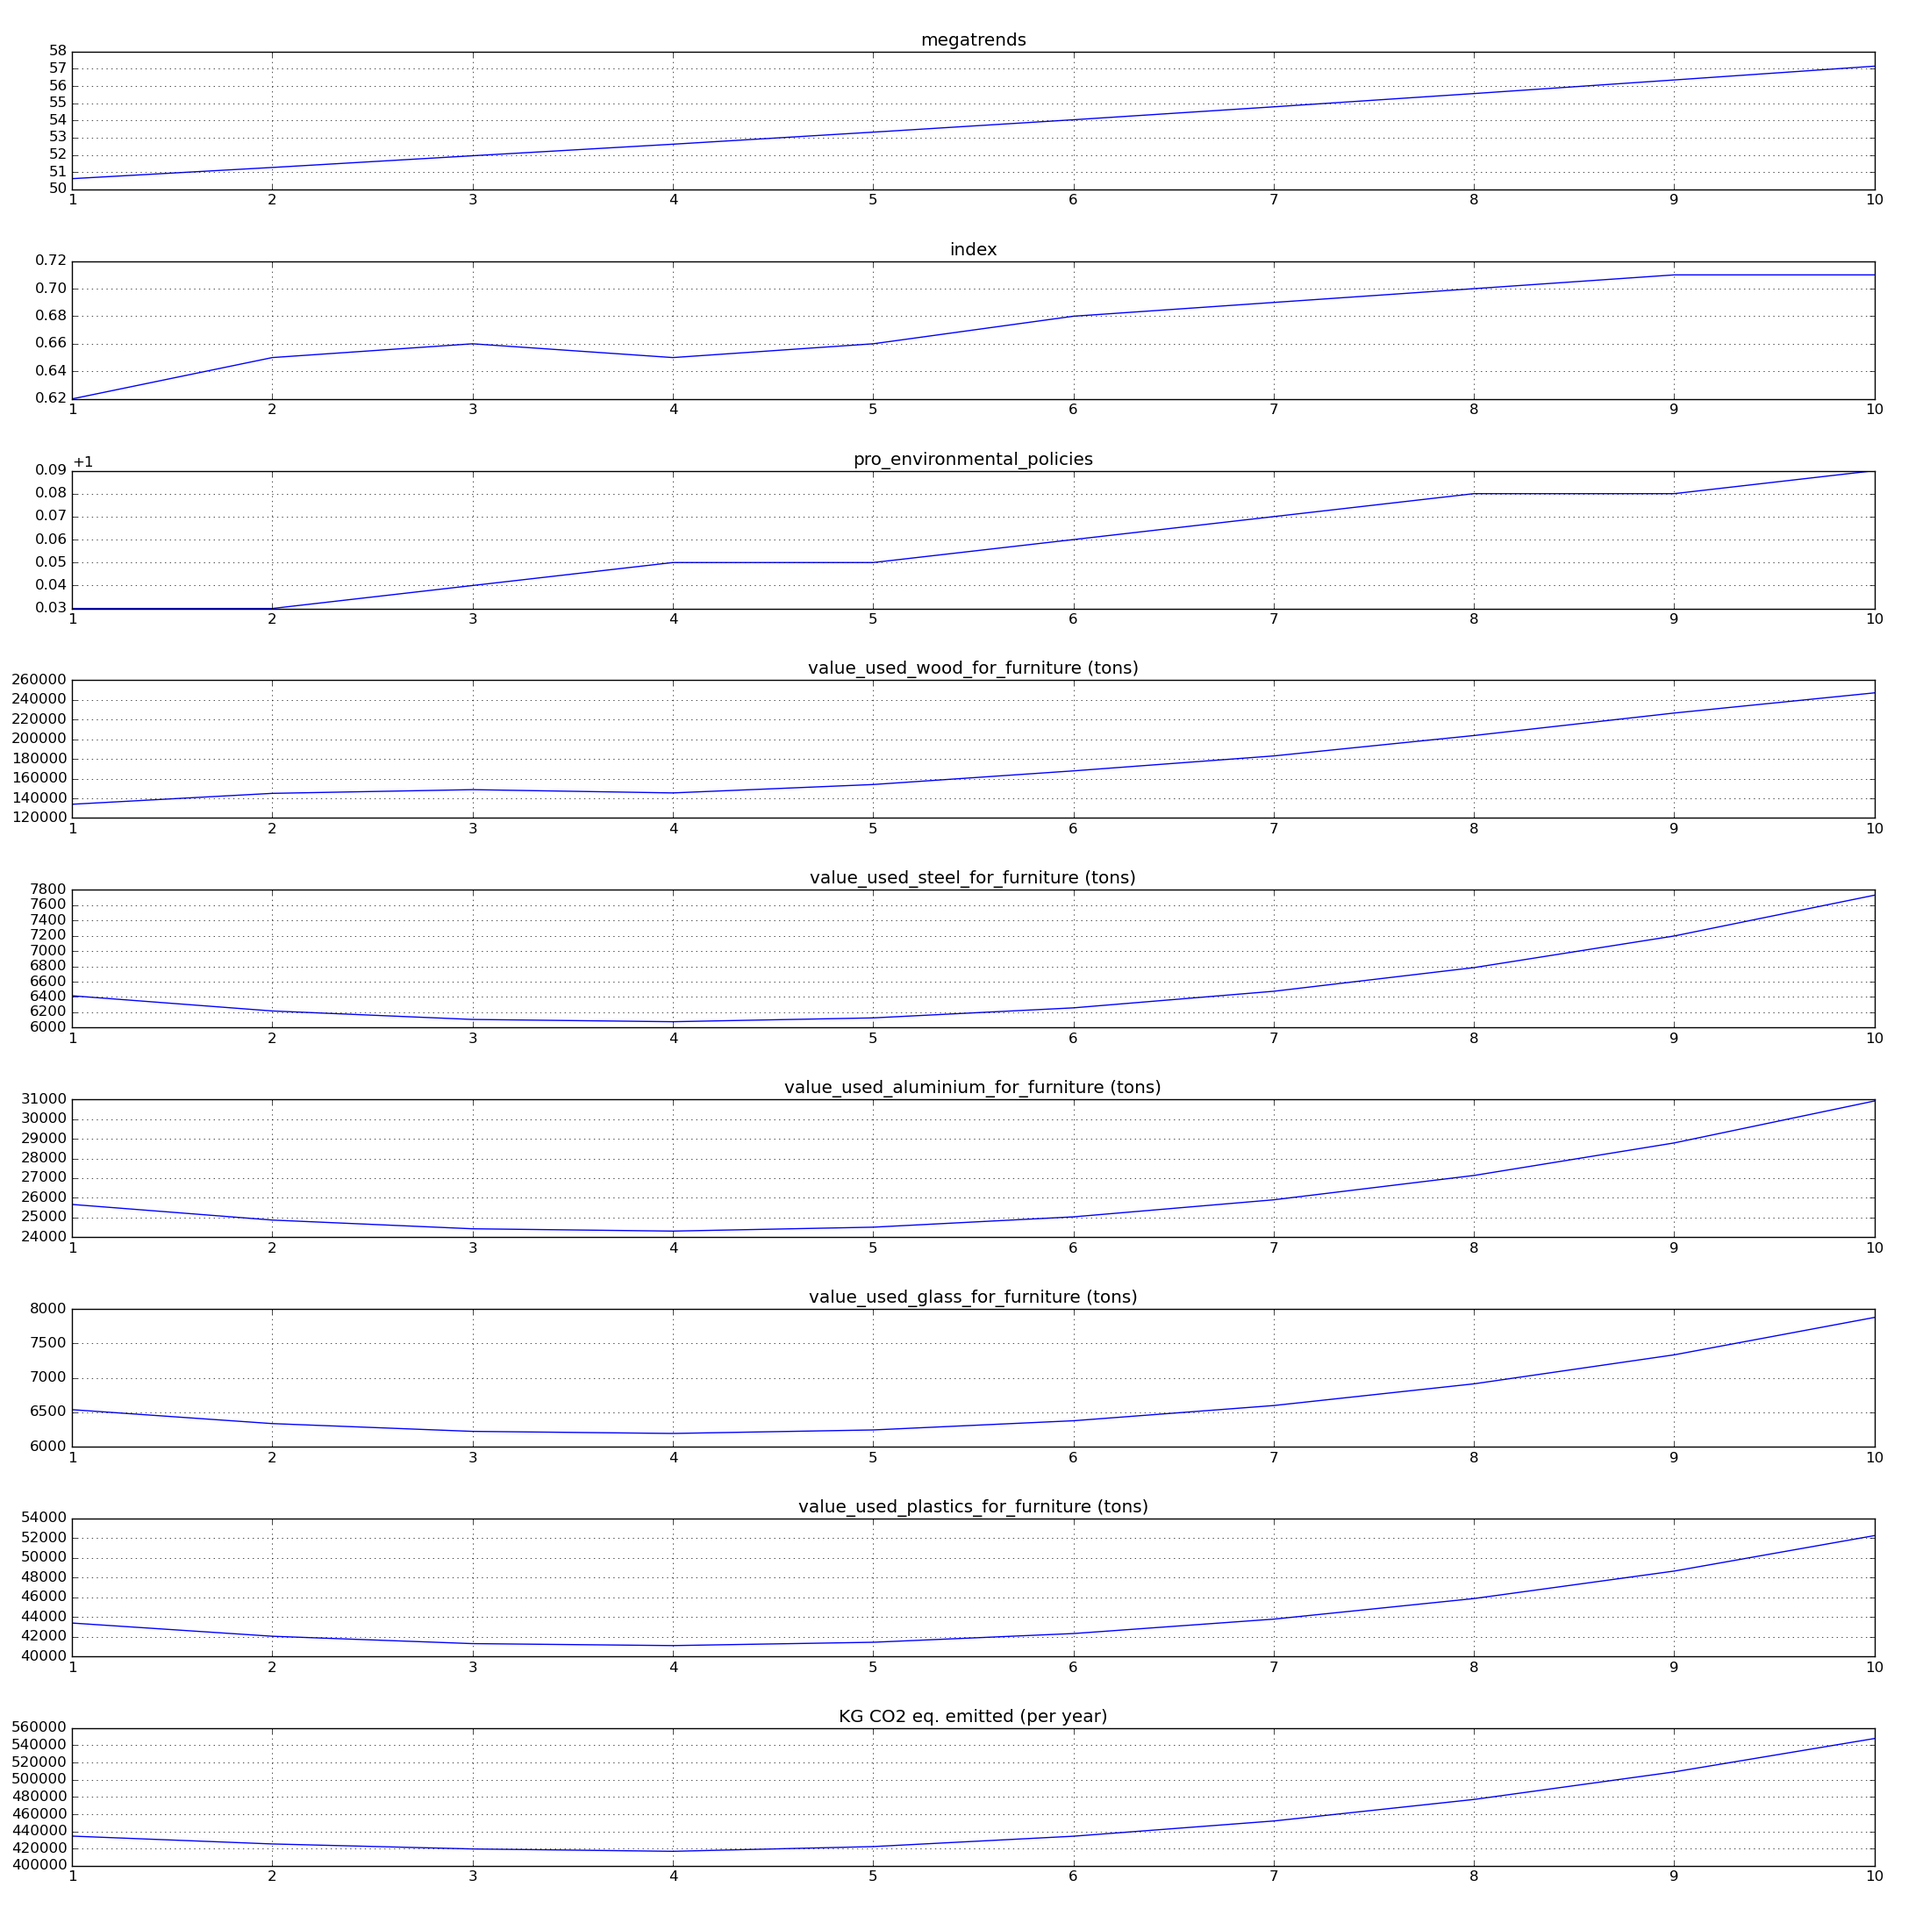
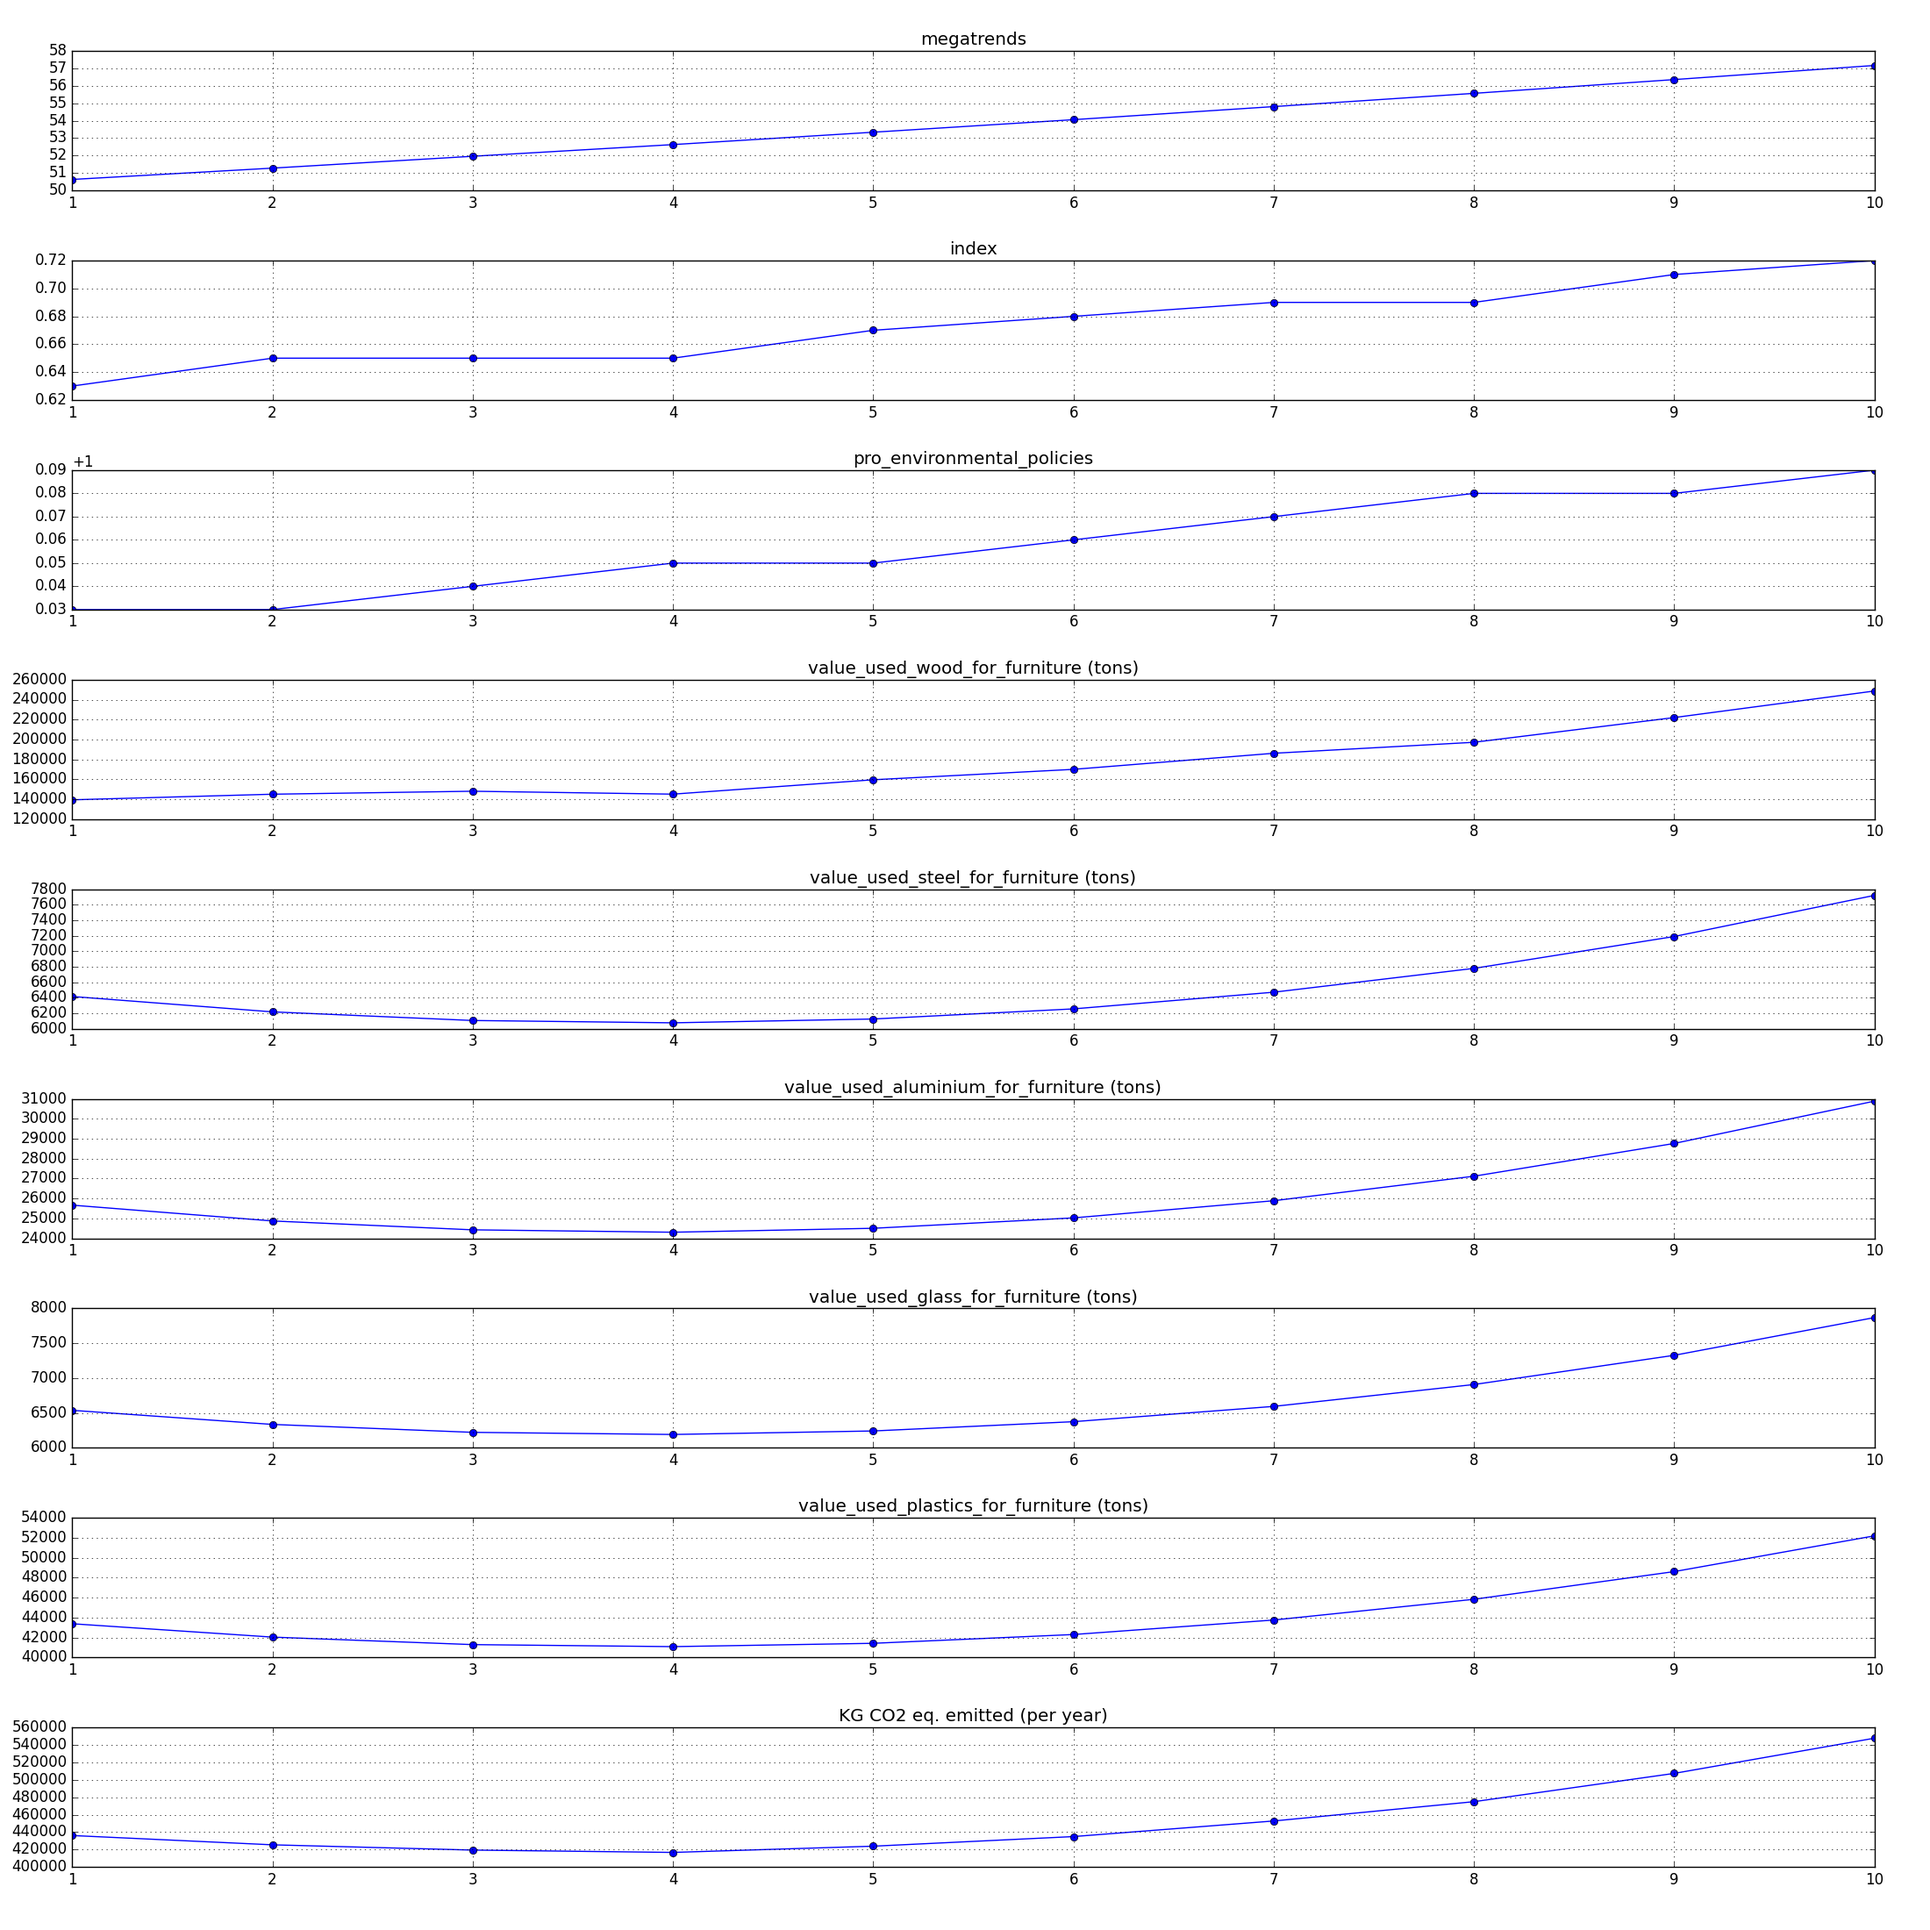
Added the code, so dots are now at the specific data points in the saved png files.

diff --git a/model.py b/model.py
@@ -265,21 +265,21 @@ def create_price_subplots(data_dic):
     # fig.suptitle('Overview Prices')
     fig.tight_layout(pad=3.0)
     # plt.grid(color='b', linestyle='-', linewidth=0.1)
-    ax[0].plot(data_dic["value_time"], data_dic["value_megatrends"])
+    ax[0].plot(data_dic["value_time"], data_dic["value_megatrends"], marker='o')
     ax[0].set_title("megatrends")
-    ax[1].plot(data_dic["value_time"], data_dic["value_index"])
+    ax[1].plot(data_dic["value_time"], data_dic["value_index"], marker='o')
     ax[1].set_title("index")
-    ax[2].plot(data_dic["value_time"], data_dic["value_pro_environmental_policies"])
+    ax[2].plot(data_dic["value_time"], data_dic["value_pro_environmental_policies"], marker='o')
     ax[2].set_title("pro_environmental_policies")
-    ax[3].plot(data_dic["value_time"], data_dic["value_price_of_wood"])
+    ax[3].plot(data_dic["value_time"], data_dic["value_price_of_wood"], marker='o')
     ax[3].set_title("value_price_of_wood (€)")
-    ax[4].plot(data_dic["value_time"], data_dic["value_price_of_steel"])
+    ax[4].plot(data_dic["value_time"], data_dic["value_price_of_steel"], marker='o')
     ax[4].set_title("value_price_of_steel (€)")
-    ax[5].plot(data_dic["value_time"], data_dic["value_price_of_aluminium"])
+    ax[5].plot(data_dic["value_time"], data_dic["value_price_of_aluminium"], marker='o')
     ax[5].set_title("value_price_of_aluminium (€)")
-    ax[6].plot(data_dic["value_time"], data_dic["value_price_of_glass"])
+    ax[6].plot(data_dic["value_time"], data_dic["value_price_of_glass"], marker='o')
     ax[6].set_title("value_price_of_glass (€)")
-    ax[7].plot(data_dic["value_time"], data_dic["value_price_of_plastics"])
+    ax[7].plot(data_dic["value_time"], data_dic["value_price_of_plastics"], marker='o')
     ax[7].set_title("value_price_of_plastics (€)")
     for i in range(8):
         ax[i].grid()
@@ -293,21 +293,21 @@ def create_material_supply_subplot(data_dic):
     # fig.suptitle('Current Material Supplies')
     fig.tight_layout(pad=3.0)
     # plt.grid(color='b', linestyle='-', linewidth=0.1)
-    ax[0].plot(data_dic["value_time"], data_dic["value_megatrends"])
+    ax[0].plot(data_dic["value_time"], data_dic["value_megatrends"], marker='o')
     ax[0].set_title("megatrends")
-    ax[1].plot(data_dic["value_time"], data_dic["value_index"])
+    ax[1].plot(data_dic["value_time"], data_dic["value_index"], marker='o')
     ax[1].set_title("index")
-    ax[2].plot(data_dic["value_time"], data_dic["value_pro_environmental_policies"])
+    ax[2].plot(data_dic["value_time"], data_dic["value_pro_environmental_policies"], marker='o')
     ax[2].set_title("pro_environmental_policies")
-    ax[3].plot(data_dic["value_time"], data_dic["value_current_supply_of_wood"])
+    ax[3].plot(data_dic["value_time"], data_dic["value_current_supply_of_wood"], marker='o')
     ax[3].set_title("value_current_supply_of_wood (tons)")
-    ax[4].plot(data_dic["value_time"], data_dic["value_current_supply_of_steel"])
+    ax[4].plot(data_dic["value_time"], data_dic["value_current_supply_of_steel"], marker='o')
     ax[4].set_title("value_current_supply_of_steel (tons)")
-    ax[5].plot(data_dic["value_time"], data_dic["value_current_supply_of_aluminium"])
+    ax[5].plot(data_dic["value_time"], data_dic["value_current_supply_of_aluminium"], marker='o')
     ax[5].set_title("value_current_supply_of_aluminium (tons)")
-    ax[6].plot(data_dic["value_time"], data_dic["value_current_supply_of_glass"])
+    ax[6].plot(data_dic["value_time"], data_dic["value_current_supply_of_glass"], marker='o')
     ax[6].set_title("value_current_supply_of_glass (tons)")
-    ax[7].plot(data_dic["value_time"], data_dic["value_current_supply_of_plastics"])
+    ax[7].plot(data_dic["value_time"], data_dic["value_current_supply_of_plastics"], marker='o')
     ax[7].set_title("value_current_supply_of_plastics (tons)")
     for i in range(8):
         ax[i].grid()
@@ -322,23 +322,23 @@ def create_used_materials_and_emissions_subplots(data_dic):
     # fig.suptitle('Used Materials + Emissions')
     fig.tight_layout(pad=3.0)
     # plt.grid(color='b', linestyle='-', linewidth=0.1)
-    ax[0].plot(data_dic["value_time"], data_dic["value_megatrends"])
+    ax[0].plot(data_dic["value_time"], data_dic["value_megatrends"], marker='o')
     ax[0].set_title("megatrends")
-    ax[1].plot(data_dic["value_time"], data_dic["value_index"])
+    ax[1].plot(data_dic["value_time"], data_dic["value_index"], marker='o')
     ax[1].set_title("index")
-    ax[2].plot(data_dic["value_time"], data_dic["value_pro_environmental_policies"])
+    ax[2].plot(data_dic["value_time"], data_dic["value_pro_environmental_policies"], marker='o')
     ax[2].set_title("pro_environmental_policies")
-    ax[3].plot(data_dic["value_time"], data_dic["value_used_wood_for_furniture"])
+    ax[3].plot(data_dic["value_time"], data_dic["value_used_wood_for_furniture"], marker='o')
     ax[3].set_title("value_used_wood_for_furniture (tons)")
-    ax[4].plot(data_dic["value_time"], data_dic["value_used_steel_for_furniture"])
+    ax[4].plot(data_dic["value_time"], data_dic["value_used_steel_for_furniture"], marker='o')
     ax[4].set_title("value_used_steel_for_furniture (tons)")
-    ax[5].plot(data_dic["value_time"], data_dic["value_used_aluminium_for_furniture"])
+    ax[5].plot(data_dic["value_time"], data_dic["value_used_aluminium_for_furniture"], marker='o')
     ax[5].set_title("value_used_aluminium_for_furniture (tons)")
-    ax[6].plot(data_dic["value_time"], data_dic["value_used_glass_for_furniture"])
+    ax[6].plot(data_dic["value_time"], data_dic["value_used_glass_for_furniture"], marker='o')
     ax[6].set_title("value_used_glass_for_furniture (tons)")
-    ax[7].plot(data_dic["value_time"], data_dic["value_used_plastics_for_furniture"])
+    ax[7].plot(data_dic["value_time"], data_dic["value_used_plastics_for_furniture"], marker='o')
     ax[7].set_title("value_used_plastics_for_furniture (tons)")
-    ax[8].plot(data_dic["value_time"], data_dic["value_gwp"])
+    ax[8].plot(data_dic["value_time"], data_dic["value_gwp"], marker='o')
     ax[8].set_title("KG CO2 eq. emitted (per year)")
     for i in range(9):
         ax[i].grid()
@@ -468,7 +468,9 @@ if __name__ == "__main__":
 
     print("\nSystem message: Creating Simulation Dataframe ...\n")
     df = pd.DataFrame(data_dic, dtype=float)
-    df.to_csv(r"static\simulation.csv", index=False, sep=";")
+
+    df.to_csv("static/simulation.csv", index=False, sep=";")
+
     print(colored("\nSystem message: Simulation Dataframe created and saved!\n", "green"))
 
     pd.set_option("display.max_rows", None, "display.max_columns", None)
